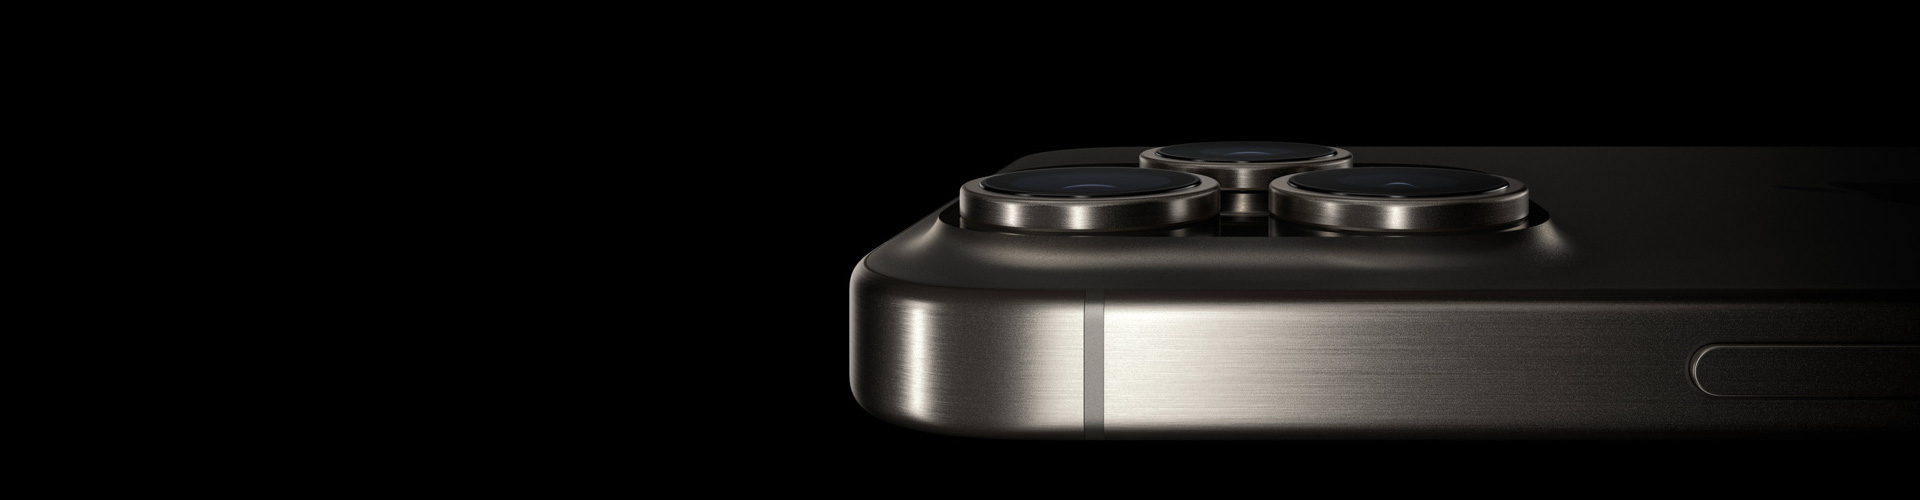
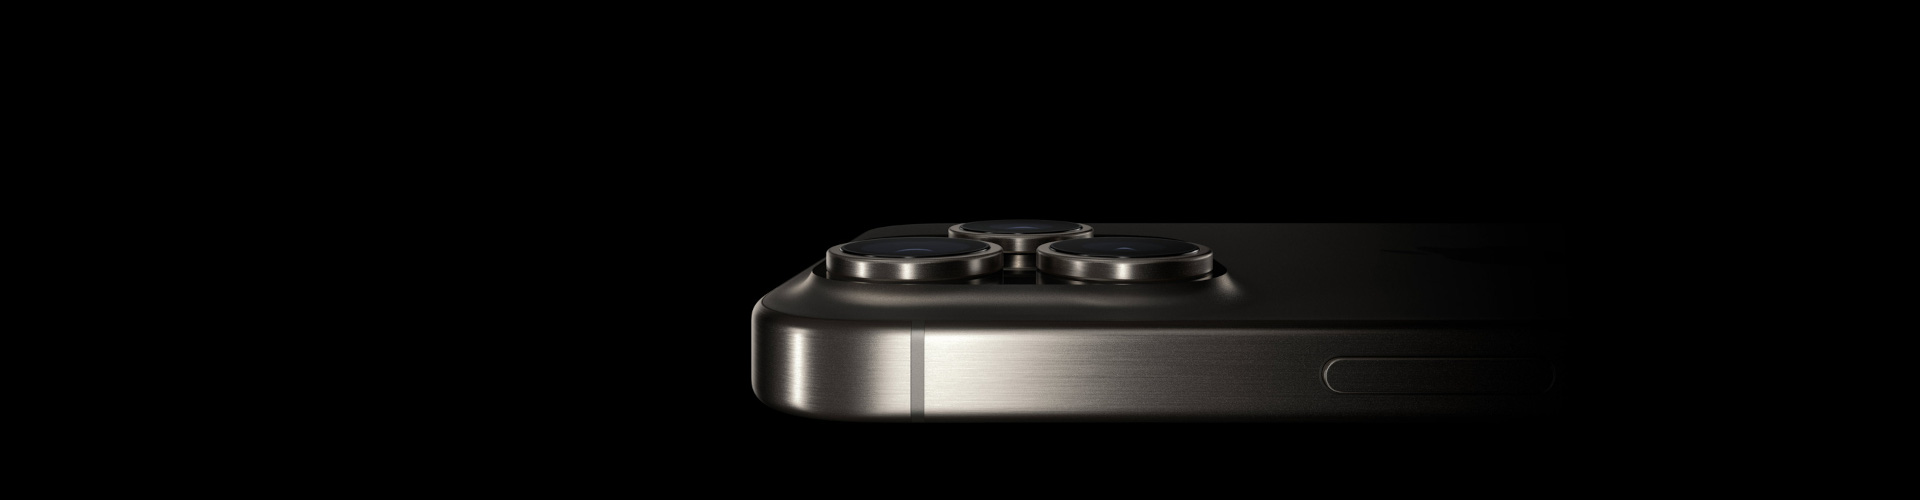
Added footer

Changed region(s): [[0.375, 0.27, 0.9375, 0.9]]

diff --git a/index.html b/index.html
@@ -119,7 +119,174 @@
     </div>
 
     <div class="footer">
+        <div class="footer-content">
+            <div class="small-text">
+                <p>
+                    1. Trade-in values will vary based on the condition, year, and configuration of your eligible trade-in device.
+                    Not all devices are eligible for credit.
+                    You must be at least 18 years old to be eligible to trade in for credit or for an Apple Gift Card.
+                    Trade-in value may be applied toward qualifying new device purchase, or added to an Apple Gift Card.
+                    Actual value awarded is based on receipt of a qualifying device matching the description provided when estimate was made.
+                    Sales tax may be assessed on full value of a new device purchase.
+                    In-store trade-in requires presentation of a valid photo ID (local law may require saving this information).
+                    Offer may not be available in all stores, and may vary between in-store and online trade-in.
+                    Some stores may have additional requirements.
+                    Apple or its trade-in partners reserve the right to refuse or limit quantity of any trade-in transaction for any reason.
+                    More details are available from Apple's trade-in partner for trade-in and recycling of eligible devices. Restrictions and limitations may apply.
+                </p>
+                <p>
+                    Apple TV+ is $4.99/month after free trial. One subscription per Family Sharing group.
+                    Offer good for 3 months after eligible device activation. Plan automatically renews until cancelled. Restrictions and other terms apply.
+                </p>
+                <p>
+                    Apple Vision Pro has not been authorized as required by the rules of the Federal Communications Commission.
+                    This device is not, and may not be, offered for sale or lease, or sold or leased, until authorization is obtained.
+                </p>
+                <p>
+                    Apple Vision Pro will be available early next year on apple.com and at Apple retail stores in the U.S.
+                </p>
+                <p>
+                    To access and use all Apple Card features and products available only to Apple Card users, you must add Apple Card to Wallet on an iPhone or iPad that supports and has the latest version of iOS or iPadOS.
+                    Apple Card is subject to credit approval, available only for qualifying applicants in the United States, and issued by Goldman Sachs Bank USA, Salt Lake City Branch.
+                </p>
+                <p>
+                    If you reside in the U.S. territories, please call Goldman Sachs at 877-255-5923 with questions about Apple Card.
+                </p>
+                <p>
+                    Learn more about how Apple Card applications are evaluated at support.apple.com/kb/HT209218.
+                </p>
+            </div>
 
+            <div class="directories">
+                <ul>
+                    <li class="root-directory"> Shop and Learn</li>
+                    <li><a href="./index.html">Store</a></li>
+                    <li><a href="./index.html">Mac</a></li>
+                    <li><a href="./index.html">iPad</a></li>
+                    <li><a href="./index.html">iPhone</a></li>
+                    <li><a href="./index.html">Watch</a></li>
+                    <li><a href="./index.html">Vision</a></li>
+                    <li><a href="./index.html">AirPods</a></li>
+                    <li><a href="./index.html">TV & Home</a></li>
+                    <li><a href="./index.html">AirTag</a></li>
+                    <li><a href="./index.html">Accessories</a></li>
+                    <li><a href="./index.html">Gift Cards</a></li>
+                </ul>
+
+                <ul>
+                    <li class="root-directory">Apple Wallet</li>
+                    <li><a href="./index.html">Wallet</a></li>
+                    <li><a href="./index.html">Apple Card</a></li>
+                    <li><a href="./index.html">Apple Pay</a></li>
+                    <li><a href="./index.html">Apple Cash</a></li>
+                </ul>
+
+                <ul>
+                    <li class="root-directory">Account</li>
+                    <li><a href="./index.html">Manage Your Apple ID</a></li>
+                    <li><a href="./index.html">Apple Store Account</a></li>
+                    <li><a href="./index.html">iCloud.com</a></li>
+                </ul>
+
+                <ul>
+                    <li class="root-directory">Entertainment</li>
+                    <li><a href="./index.html">Apple One</a></li>
+                    <li><a href="./index.html">Apple TV+</a></li>
+                    <li><a href="./index.html">Apple Music</a></li>
+                    <li><a href="./index.html">Apple Arcade</a></li>
+                    <li><a href="./index.html">Apple Fitness+</a></li>
+                    <li><a href="./index.html">Apple News+</a></li>
+                    <li><a href="./index.html">Apple Podcasts</a></li>
+                    <li><a href="./index.html">Apple Book</a></li>
+                    <li><a href="./index.html">App Store</a></li>
+                </ul>
+
+                <ul>
+                    <li class="root-directory">Apple Store</li>
+                    <li><a href="./index.html">Find a Store</a></li>
+                    <li><a href="./index.html">Genius Bar</a></li>
+                    <li><a href="./index.html">Today at Apple</a></li>
+                    <li><a href="./index.html">Apple Camp</a></li>
+                    <li><a href="./index.html">Apple Store App</a></li>
+                    <li><a href="./index.html">Certified Refurbished</a></li>
+                    <li><a href="./index.html">Apple Trade In</a></li>
+                    <li><a href="./index.html">Financing</a></li>
+                    <li><a href="./index.html">Carrier Deals at Apple</a></li>
+                    <li><a href="./index.html">Order Status</a></li>
+                    <li><a href="./index.html">Shopping Help</a></li>
+                </ul>
+
+                <ul>
+                    <li class="root-directory">For Bussines</li>
+                    <li><a href="./index.html">Apple and Business</a></li>
+                    <li><a href="./index.html">Shop for Business</a></li>
+                </ul>
+
+                <ul>
+                    <li class="root-directory">For Education</li>
+                    <li><a href="./index.html">Apple and Education</a></li>
+                    <li><a href="./index.html">Shop for K-12</a></li>
+                    <li><a href="./index.html">Shop for College</a></li>
+                </ul>
+
+                <ul>
+                    <li class="root-directory">For Healthcare</li>
+                    <li><a href="./index.html">Apple in Healthcare</a></li>
+                    <li><a href="./index.html">Health on Apple Watch</a></li>
+                    <li><a href="./index.html">Health Record on iPhone</a></li>
+                </ul>
+
+                <ul>
+                    <li class="root-directory">For Government</li>
+                    <li><a href="./index.html">Shop for Government</a></li>
+                    <li><a href="./index.html">Shop for Veterant and Military</a></li>
+                </ul>
+
+                <ul>
+                    <li class="root-directory">Apple Values</li>
+                    <li><a href="./index.html">Accessibility</a></li>
+                    <li><a href="./index.html">Educatoin</a></li>
+                    <li><a href="./index.html">Inclusion and Diversity</a></li>
+                    <li><a href="./index.html">Privacy</a></li>
+                    <li><a href="./index.html">Racial Equity and Justice</a></li>
+                    <li><a href="./index.html">Supplier Responsibility</a></li>
+                </ul>
+
+                <ul>
+                    <li class="root-directory">About Apple</li>
+                    <li><a href="./index.html">Newsroom</a></li>
+                    <li><a href="./index.html">Apple Leadership</a></li>
+                    <li><a href="./index.html">Carrer Opportunities</a></li>
+                    <li><a href="./index.html">Investors</a></li>
+                    <li><a href="./index.html">Ethics & Compliance</a></li>
+                    <li><a href="./index.html">Events</a></li>
+                    <li><a href="./index.html">Contact Apple</a></li>
+                </ul>
+            </div>
+
+        </div>
+
+        <div class="under-footer">
+            <div class="under-dir">
+                More ways to shop: <a href="./index.html">Find an Apple Store</a> or <a href="./index.html">other retailer</a> near you. Or call 1-800-MY-APPLE.
+            </div>
+            <div class="close">
+                <div class="copyright">Copyright © 2023 Apple Inc. All rights reserved.</div>
+            
+                <div class="close-wrap">
+                    <ul>
+                        <li><a href="./index.html">Privacy Policy</a></li>
+                        <li><a href="./index.html">Terms of Use</a></li>
+                        <li><a href="./index.html">Sales and Refunds</a></li>
+                        <li><a href="./index.html">Legal</a></li>
+                        <li><a href="./index.html">Site Map</a></li>
+                    </ul>
+    
+                    <div class="locale"><a href="./index.html">United States</a></div>
+                </div>
+                
+            </div>
+        </div>
     </div>
 
 </body>

diff --git a/style.css b/style.css
@@ -15,7 +15,6 @@ body {
     flex-direction: column;
     align-items: center;
     justify-content: center;
-    color:antiquewhite;
 }
 
 .header-items {
@@ -27,7 +26,8 @@ body {
 
 .header a {
     text-decoration: none;
-    color: antiquewhite;
+    color:rgba(255, 255, 255, .8);
+    padding: 5px;
 }
 
 .header-items a:hover {
@@ -46,16 +46,22 @@ body {
 #iphonePro {
     background-image: url("./images/iphone15pro.jpg");
     color: white;
+    background-repeat: no-repeat;
+    background-position: center;
 }
 
 #iphone {
     background-image: url("./images/iphone15.jpg");
     color: black;
+    background-repeat: no-repeat;
+    background-position: center;
 }
 
 #film {
     background-image: url("./images/film.jpg");
     color: white;
+    background-repeat: no-repeat;
+    background-position: center;
 }
 
 #film h2 {
@@ -64,12 +70,13 @@ body {
 }
 
 .ads {
+    max-width: 1920px;
     height: 500px;
     width: 100%;
     display: flex;
     flex-direction: column;
     align-items: center;
-    justify-content: center;
+    justify-content:flex-start;
     text-align: center;
     margin-bottom: 8px;
 }
@@ -143,4 +150,83 @@ body {
 .card-text {
     margin: 0 auto 0 auto;
     text-align: center;
+}
+
+.footer {
+    width: 100%;
+    display: flex;
+    flex-direction: column;
+    align-items: center;
+    background-color: #f5f5f7;
+    color: #6e6e73;
+    border-color: #d2d2d7;
+    font-size: 12px;
+}
+
+.footer-content, .under-footer {
+    width: 50%;
+}
+
+.footer-content {
+    display: flex;
+    flex-direction: column;
+    justify-items: center;
+    align-items: center;
+}
+
+.footer a, .close a {
+    color: #424245;
+    text-decoration: none;
+}
+
+.footer a:hover, .close a:hover {
+    text-decoration: underline;
+}
+
+.root-directory {
+    color: #1d1d1f;
+}
+
+.small-text {
+    border-bottom: 1px solid;
+}
+
+ul {
+    list-style-type: none;
+}
+
+.directories {
+    display: flex;
+    justify-content: center;
+    gap: 12px;
+    flex-wrap: wrap;
+}
+
+.under-dir a {
+    color: #06c;
+    text-decoration: underline;
+}
+
+.under-dir {
+    border-bottom: 1px solid;
+    padding: 2px;
+}
+
+.close ul li {
+    display: inline;
+    border-right: 1px solid;
+    padding: 2px;
+}
+
+.close ul {
+   padding: 0px;
+}
+
+.locale {
+    margin-left: auto;
+}
+
+.close-wrap {
+    display: flex;
+    justify-content: space-between;
 }
